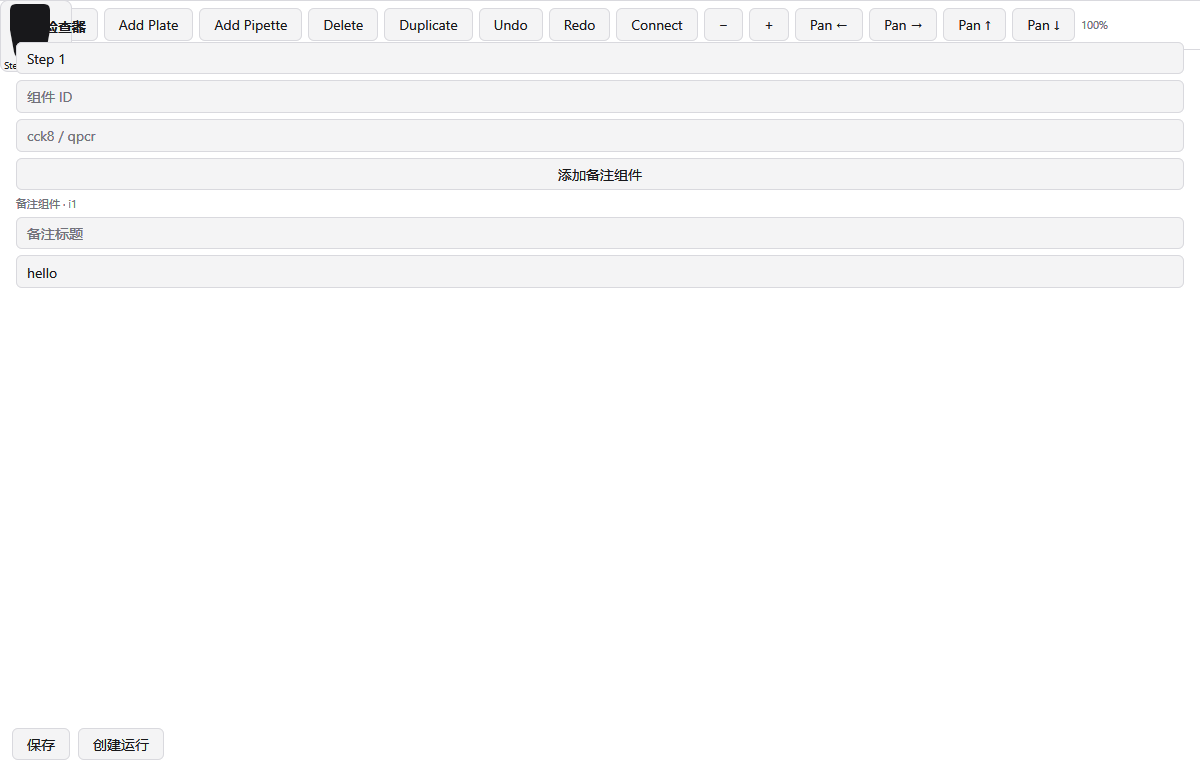
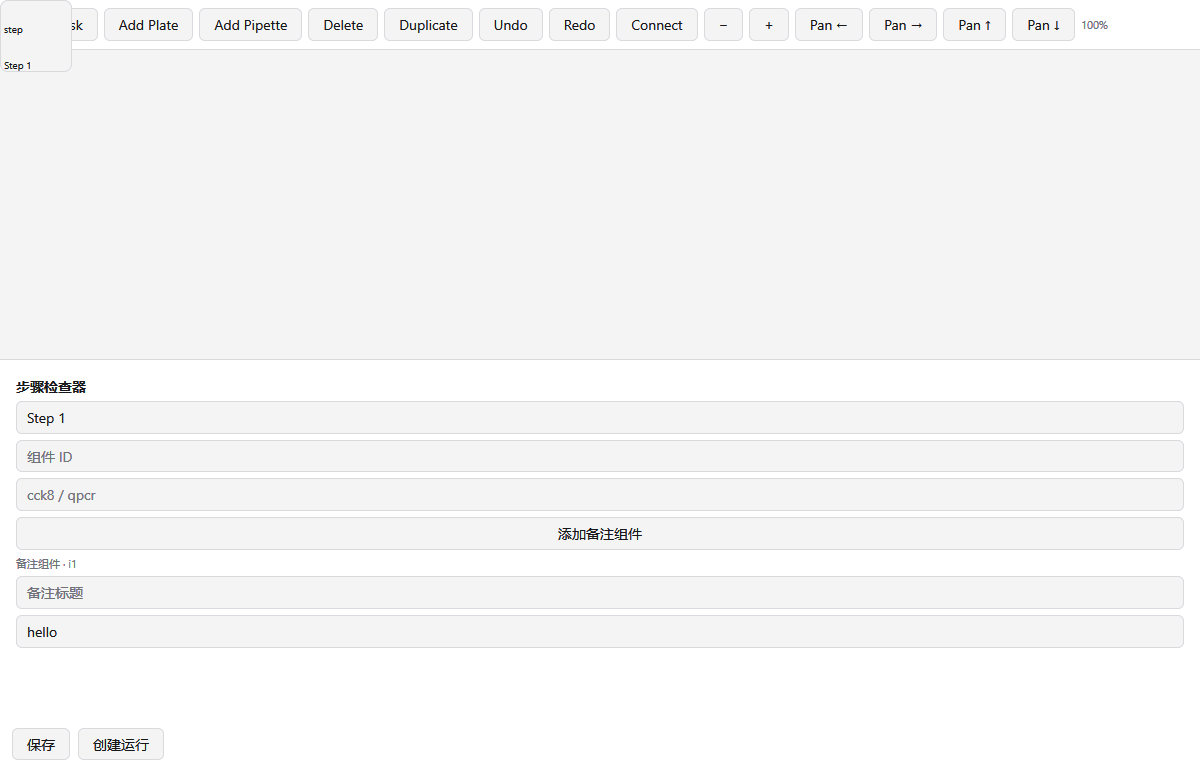
feat: finalize v1.2 designer canvas interactions and well assignment

diff --git a/prototypes/mygo-run/internal/designer/designer_test.go b/prototypes/mygo-run/internal/designer/designer_test.go
@@ -157,79 +157,80 @@ type persistedDesignService struct {
 func (s *persistedDesignService) ListDesigns(context.Context) ([]runs.DesignSummary, error) {
 	return nil, nil
 }
-
-func (s *persistedDesignService) LoadDesign(_ context.Context, _ string) (runs.DesignSnapshot, error) {
+func (s *persistedDesignService) LoadDesign(context.Context, string) (runs.DesignSnapshot, error) {
 	return s.snapshot, nil
 }
-
-func (s *persistedDesignService) SaveDesign(_ context.Context, input runs.DesignSaveInput) (runs.DesignSnapshot, error) {
-	s.snapshot = runs.DesignSnapshot{
-		DesignID: input.DesignID, Revision: input.ExpectedRevision + 1,
-		Title: "Saved design", Data: input.Changes,
-	}
+func (s *persistedDesignService) SaveDesign(_ context.Context, in runs.DesignSaveInput) (runs.DesignSnapshot, error) {
+	s.snapshot = runs.DesignSnapshot{DesignID: in.DesignID, Revision: in.ExpectedRevision + 1, Title: "Saved design", Data: in.Changes}
 	return s.snapshot, nil
 }
-
 func (s *persistedDesignService) CreateRun(_ context.Context, designID, _ string) (runs.RunSnapshot, error) {
 	s.created = true
 	return runs.RunSnapshot{DesignID: designID, RunID: "run-created"}, nil
 }
-
 func (s *persistedDesignService) Close() error { return nil }
 
-func TestDesignerUIMapSaveReopenAndCreateRun(t *testing.T) {
+func TestDesignerUIMapSaveReopenCreateRun(t *testing.T) {
 	svc := &persistedDesignService{snapshot: runs.DesignSnapshot{DesignID: "design-1", Revision: 2, Title: "Test"}}
 	d := New("design-1", "Test", 2, svc)
 	tt := ui.NewTester(func(c *ui.Context) { View(c, d) }, 1200, 760)
-	tt.Frame()
 	d.Editor.AddNode(workflow.KindFlask, "Flask", workflow.Position{X: 80, Y: 80})
-	d.SelectedNode = d.Editor.SelectedNode
+	tt.Frame()
 	if d.SelectedNode == "" {
-		t.Fatal("workflow editor did not create/select a step")
+		t.Fatal("workflow editor did not select the new step")
 	}
 	d.setNodeTitle(d.SelectedNode, "Incubate cells")
 	d.AssayIDDraft = assays.CCK8
 	d.StepAssays[d.SelectedNode] = assays.CCK8
 	d.Assays[assays.CCK8] = assays.Design{Timepoints: []string{"24 h"}}
 	d.SampleIDDraft, d.GroupIDDraft, d.WellTimepointDraft = "sample-1", "control", "24 h"
-	p := d.Assays[assays.CCK8]
-	p.Wells = []assays.WellAssignment{{WellID: "A1", SampleID: "sample-1", GroupID: "control", Replicate: 1, Timepoint: "24 h"}}
-	d.Assays[assays.CCK8] = p
+	d.toggleWell("A1")
+	tt.Frame()
+	if !containsString(d.SelectedWells, "A1") {
+		t.Fatal("visual well selection did not update")
+	}
+	if err := d.AssignSelectedWells(); err != nil {
+		t.Fatal(err)
+	}
+	tt.Frame()
+	if got := len(d.Assays[assays.CCK8].Wells); got != 1 {
+		t.Fatalf("assigned wells=%d", got)
+	}
 	d.Save(context.Background())
 	if d.SaveState != SaveSaved {
-		t.Fatalf("save state = %s (%s)", d.SaveState, d.Error)
+		t.Fatalf("save state=%s error=%s", d.SaveState, d.Error)
 	}
 
 	reopened := New("design-1", "Test", 0, svc)
 	reopened.Load(context.Background(), "design-1")
 	if got := reopened.nodeTitle(reopened.Editor.Doc.Nodes[0].ID); got != "Incubate cells" {
-		t.Fatalf("reopened step title = %q", got)
+		t.Fatalf("reopened title=%q", got)
 	}
 	if got := reopened.Assays[assays.CCK8].Wells; len(got) != 1 || got[0].WellID != "A1" {
-		t.Fatalf("reopened mapping = %+v", got)
+		t.Fatalf("reopened mapping=%+v", got)
 	}
+	reopened.Editor.SelectNode(reopened.Editor.Doc.Nodes[0].ID)
 	tt = ui.NewTester(func(c *ui.Context) { View(c, reopened) }, 1200, 760)
 	tt.Frame()
 	f, err := os.Create("designer-mapping-roundtrip.png")
 	if err != nil {
 		t.Fatal(err)
 	}
-	if err := png.Encode(f, tt.Image()); err != nil {
+	if err = png.Encode(f, tt.Image()); err != nil {
 		f.Close()
 		t.Fatal(err)
 	}
-	if err := f.Close(); err != nil {
+	if err = f.Close(); err != nil {
 		t.Fatal(err)
 	}
-
 	reopened.setNodeTitle(reopened.Editor.Doc.Nodes[0].ID, "Updated step")
 	var created runs.RunSnapshot
 	reopened.OnCreateRun = func(s runs.RunSnapshot) { created = s }
 	reopened.CreateRun(context.Background())
 	if !svc.created || created.RunID != "run-created" {
-		t.Fatalf("Core CreateRun not reached: created=%v run=%+v", svc.created, created)
+		t.Fatalf("CreateRun not reached: %+v", created)
 	}
 	if reopened.Dirty || reopened.SaveState != SaveSaved {
-		t.Fatalf("CreateRun did not save current draft: state=%s dirty=%v", reopened.SaveState, reopened.Dirty)
+		t.Fatalf("run creation failed to save draft: %s", reopened.SaveState)
 	}
 }

diff --git a/prototypes/mygo-run/internal/designer/designer.go b/prototypes/mygo-run/internal/designer/designer.go
@@ -408,11 +408,12 @@ func View(c *ui.Context, d *Designer) {
 		ui.Row(c).Grow(1).Children(func() {
 			if d.Left != nil {
 				ui.Column(c).Width(220).FillHeight().Padding(8).Gap(6).Background(t.Surface).Children(func() {
+					d.Left(c)
 				})
 			}
 			ui.Column(c).Grow(1).FillHeight().Children(func() {
 				// top workflow editor
-				ui.Box(c).Grow(1).Fill().Children(func() {
+				ui.Box(c).Height(280).Fill().Children(func() {
 					if d.Editor != nil {
 						d.Editor.View(c)
 					}

diff --git a/prototypes/mygo-run/internal/workflow/view.go b/prototypes/mygo-run/internal/workflow/view.go
@@ -99,7 +99,7 @@ func (e *Editor) View(c *ui.Context) {
 				}
 				p.Fill(r, fill, 8)
 				p.Stroke(r, t.Border, 8, 1)
-				p.FillPath(iconPath(n.Kind), t.Text)
+				p.Text(r.X+4, r.Y+22*z, string(n.Kind), 10*z, t.Text)
 				p.Text(r.X+4, r.Y+58*z, n.Title, 10*z, t.Text)
 			}).OnClick(func() {
 				if !e.ConnectMode {
